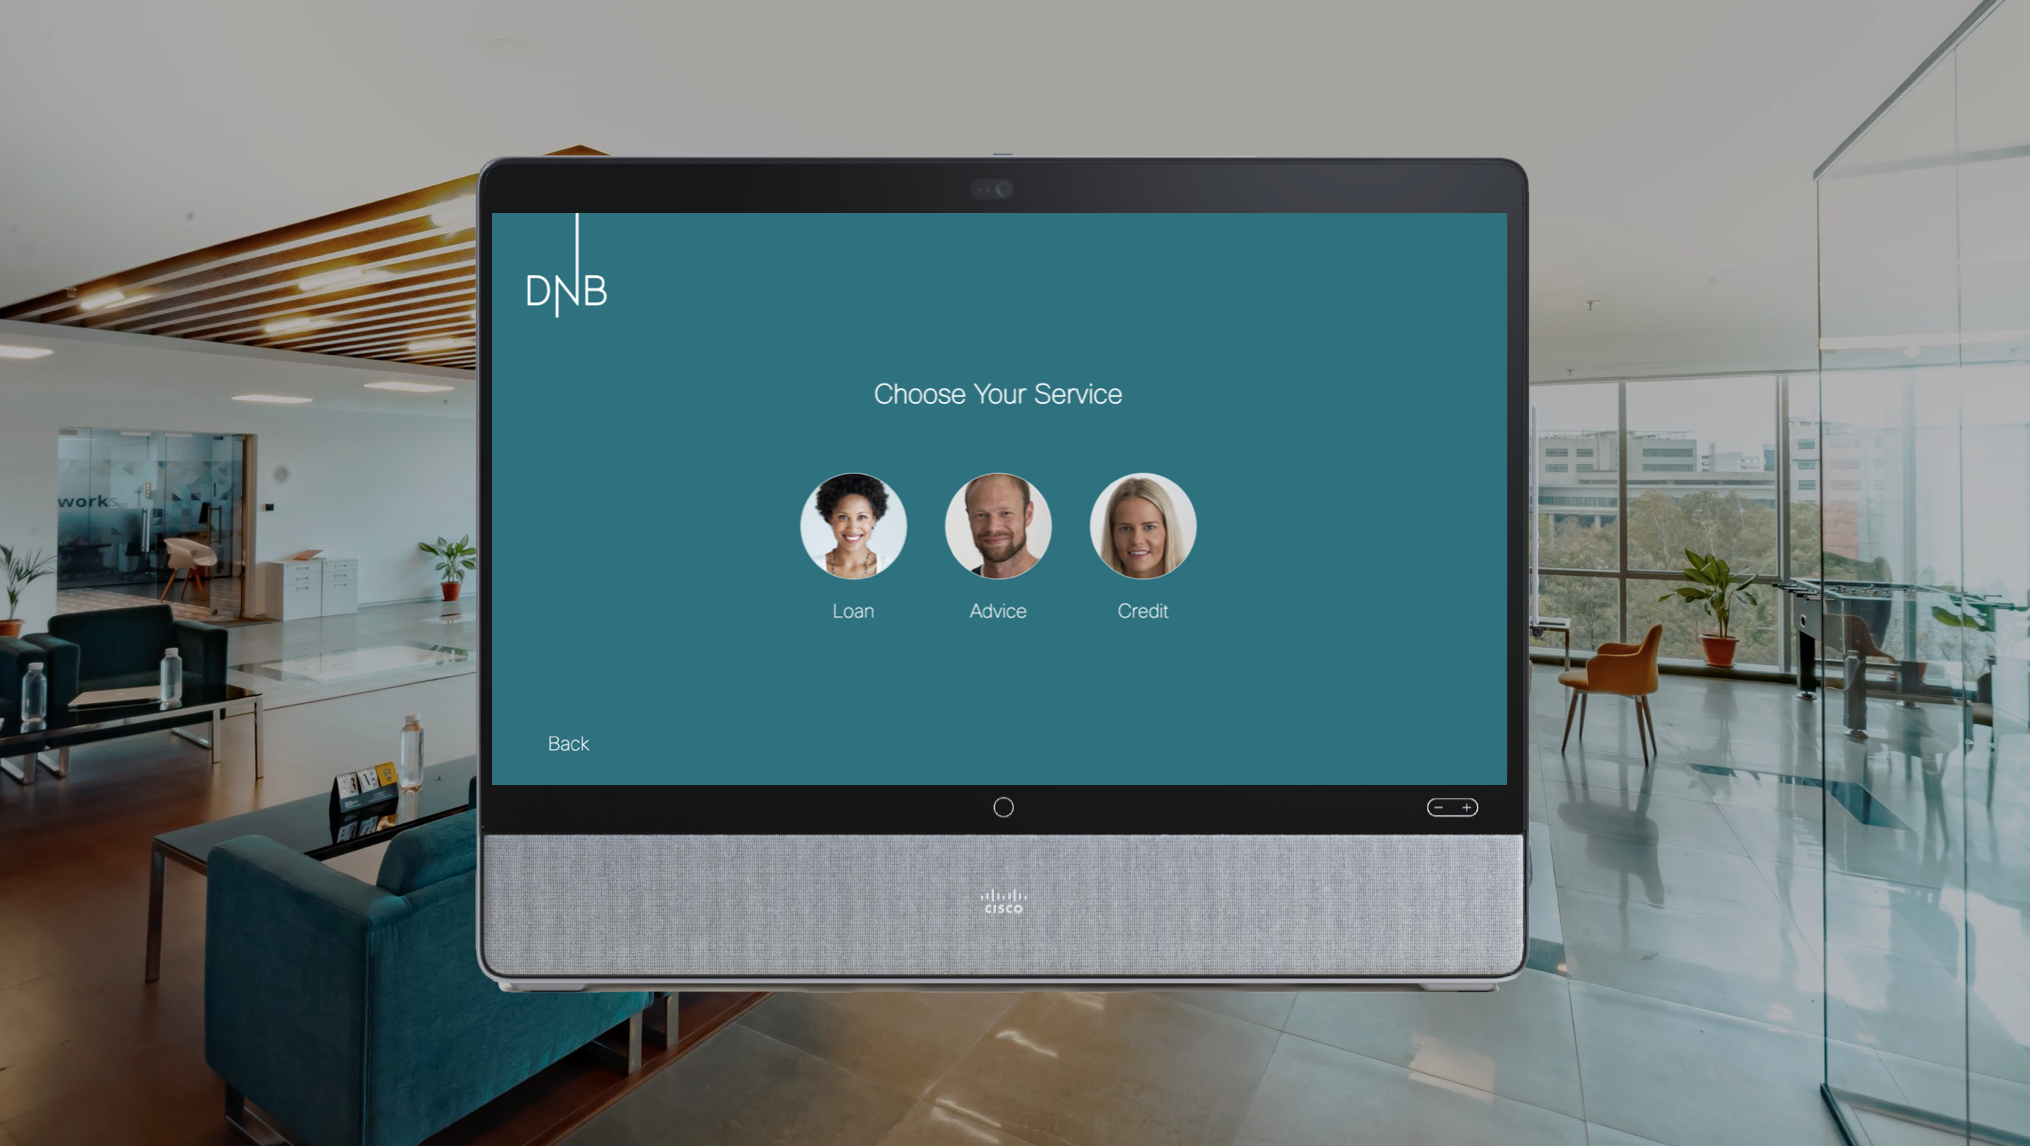
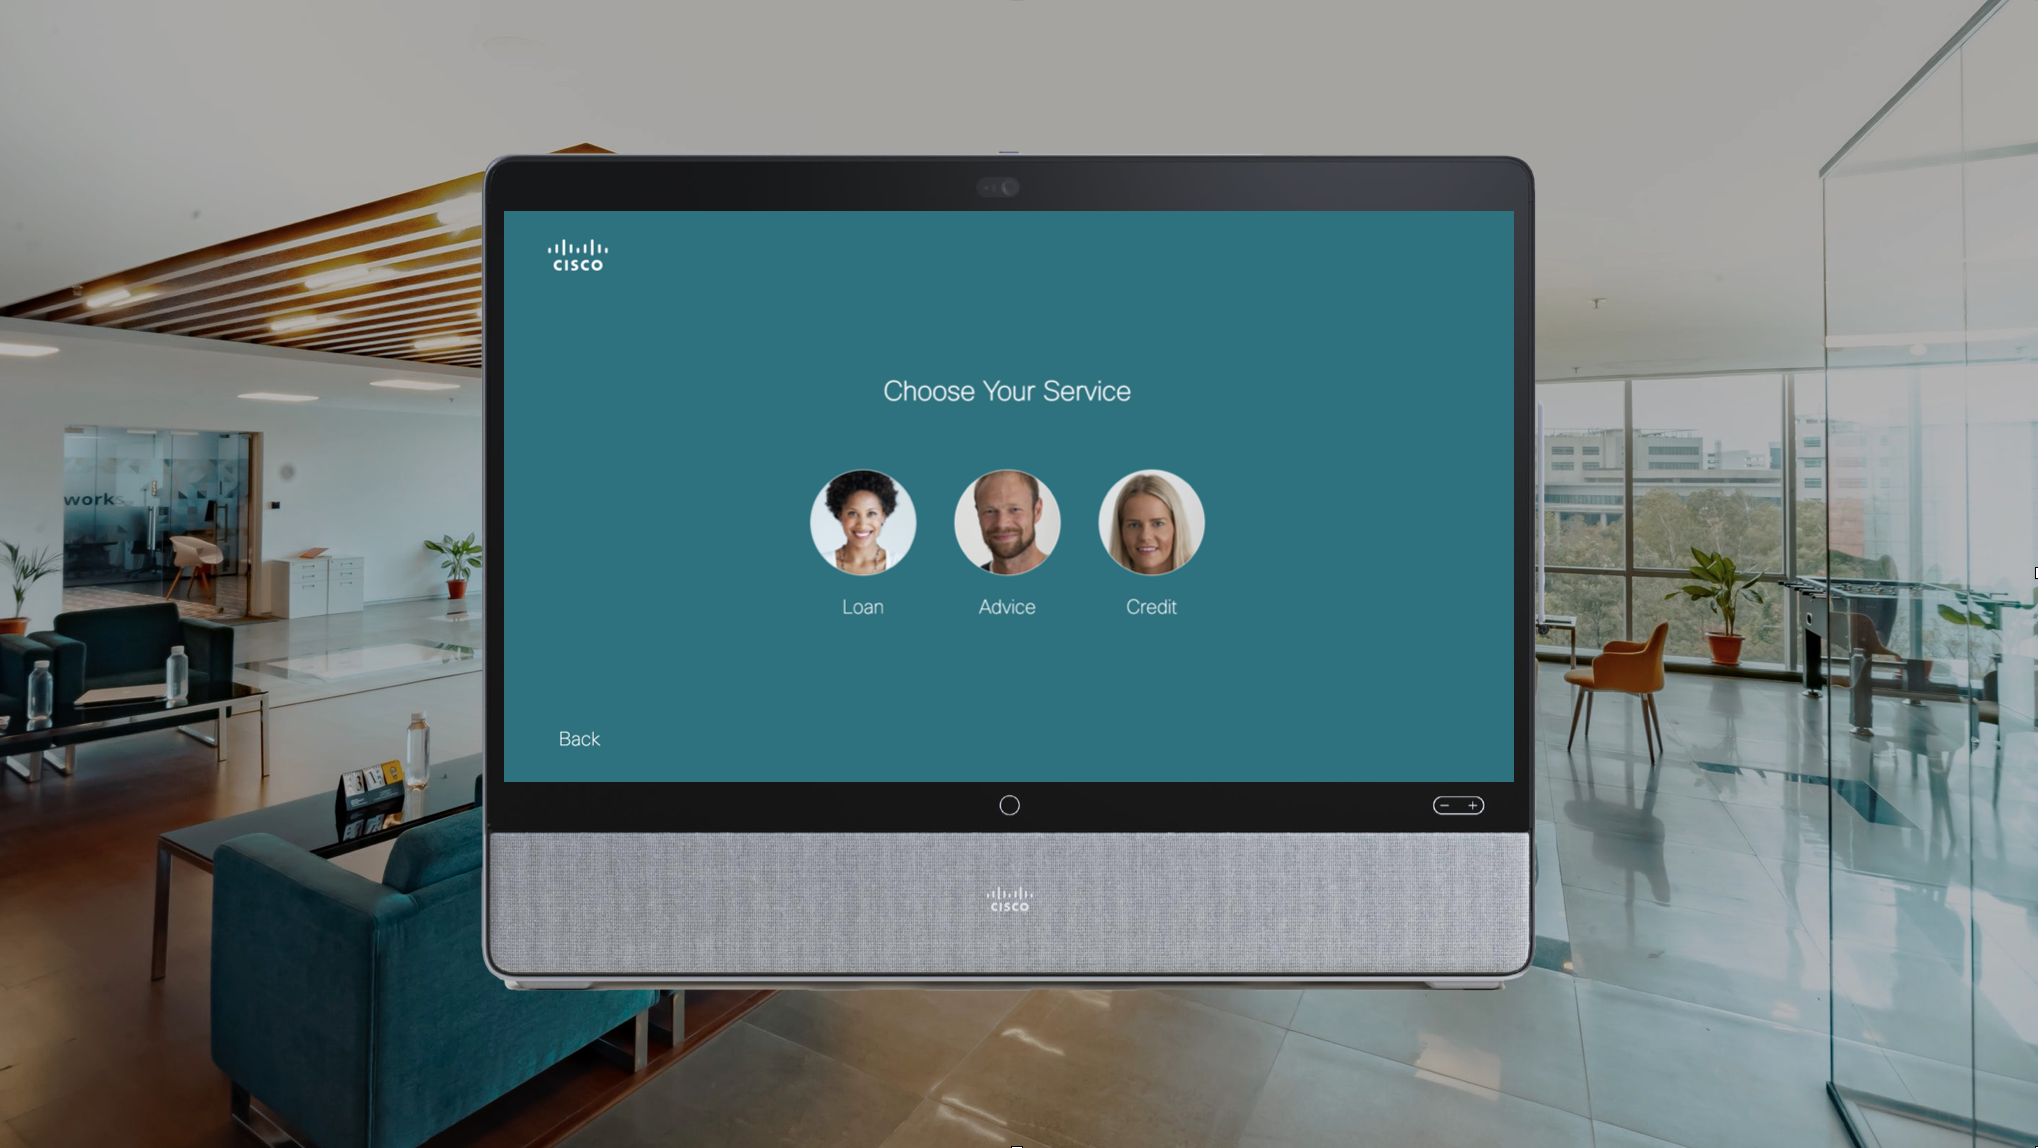
kiosk mode: make images use webex branded kiosk, update article

diff --git a/docs/KioskMode.md b/docs/KioskMode.md
@@ -6,6 +6,11 @@ Kiosk mode let's you replace the home screen of your Webex Device with your own 
 
 The typical use case is reception areas, where you want to tightly control how visitors use the Webex devices, as well as provide your own branding to the first-time experience. Setting the device in kiosk mode makes it possible to disable all non-video functions such as whiteboarding, screensharing etc and disabling users from meddling with the settings of the video device.
 
+*Typical flow of a kiosk use case:*
+
+<img src="/docs/images/kiosk/flow.png" />
+
+
 Kiosk mode still allows you to call with the device. In call, the user experience is the same as in any call, but as soon as the call is ended, the device goes back to the kiosk web page.
 
 Typical use cases could be:
@@ -33,6 +38,12 @@ xConfiguration UserInterface Kiosk URL: <S: 0, 255>
 
 Set the **URL** to the web site you want to display, then set **Mode** to **On**. The device should now immediately show the web app as your new home page. Notice that you cannot swipe or tap anywhere to exit the kiosk mode. As a kiosk admin, it's your responsibility to create a kiosk that gives the user a good user experience.
 
+Web engine obviously need to be on as well (default):
+
+```
+xConfiguration WebEngine Mode: On
+```
+
 ## Placing a call
 
 To create buttons to start calls, you can add link on your web page using the `sip` protocol. For example:
@@ -59,7 +70,9 @@ This should open the settings menu, so you can find the IP address of the device
 
 <img src="/docs/images/kiosk/settings.png">
 
-## Recommended settings
+Note that the secret gesture is more of a child safety mechanism to reduce the chance of the kiosk being in a bad state after some adventurous users have played with it, not a security feature.
+
+## Recommended setup
 
 The kiosk mode itself only replaces the standard Webex Device home screen with a web app. In most scenarios, you probably want to set these configurations as well, to prevent users from tampering (accidentally) with the devicee:
 
@@ -71,9 +84,18 @@ xConfiguration Audio Ultrasound MaxVolume: 0
 xConfiguration UserInterface Assistant Mode: Off
 ```
 
+If you want to limit the settings menu so that even users who knows about the gesture for accessing settings, can't factory reset the device etc, you can lock it:
+
+```
+xConfiguration UserInterface SettingsMenu Mode: Locked
+```
+
 If you want to prevent the users from ending the call (only let far end do it), or disable other in-call features, you can do that by changing the [UserInterface Features configs](/xapi/search?domain=UserInterface+feat&search=userinterface+features&Type=Configuration)
 
 You might also want to review the [Standby configurations](/xapi/search?search=standby&Type=Configuration). In kiosk mode, the system will never enter half wake state, but it will go to standby after the specified amount of minutes, just like in normal mode.
+
+You may also want to tune the microphone and camera settings to whatever makes sense for the location and use case of your particular kiosk, for example make sure [noise reduction](/xapi/Configuration.Audio.Microphones.NoiseRemoval.Mode/?search=noise) is active, that [speaker track](/xapi/search?search=speakertrack&Type=Configuration) is off and that the camera zoomed and panned appropriately.
+
 
 ## Out of service mode
 
@@ -84,6 +106,13 @@ If the kiosk is not able to access the URL, it will display a service mode page 
 ## Accessing the xAPI
 
 Currently (January 2022) it is not possible for the kiosk web app to access the xAPI of the video device. That means that the only video features you can use from the kiosk is to place calls.
+
+## Automatic reset / timeout
+
+The kiosk web app itself is responsible for 'cleaning up' the kiosk after the user, for example after a few minutes of inactivity.
+
+This can be done with common web patterns, such as listening for touch events on the the body element of the web page, resetting a timer each time a user touches the screen, and resetting the kiosk if the timer reaches zero.
+
 
 <!--
 ## Integrating with macros (esp auto-call)
